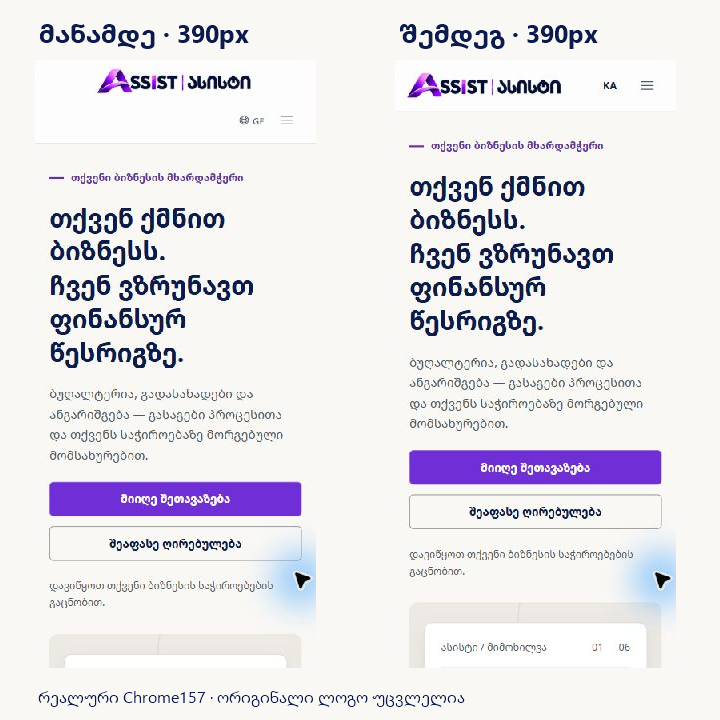
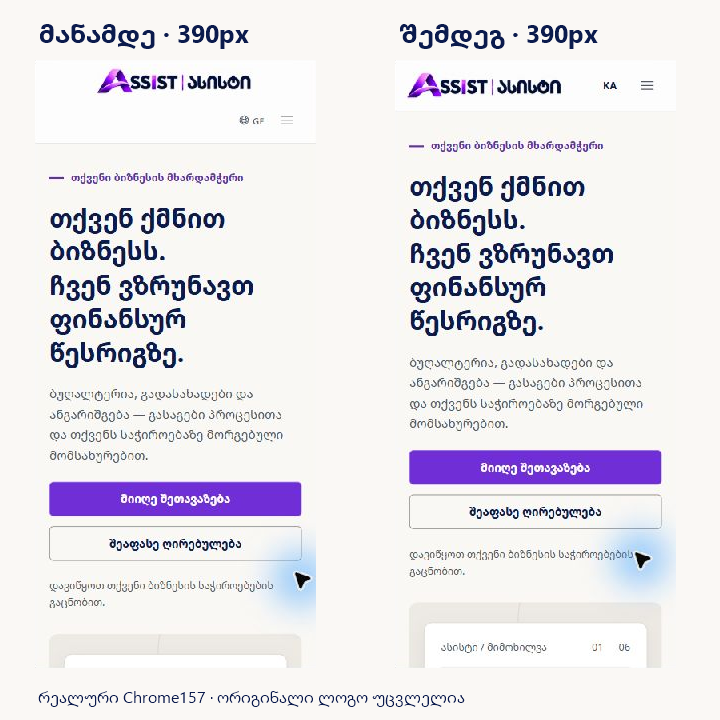
Record verified public mobile header and pin bootstrap LF bytes

Changed region(s): [[0.825, 0.7333, 0.9472, 0.8556]]

diff --git a/docs/brand/CODEX_CONTINUE.md b/docs/brand/CODEX_CONTINUE.md
@@ -1,3 +1,13 @@
+## მობილური ჰედერი საჯაროდ ასახულია — 19 ნოემბერი 2026
+
+[PR #5](https://github.com/revaza88/assistpro/pull/5) main-ში გაერთიანდა: [091e360](https://github.com/revaza88/assistpro/commit/091e36066803f1383a4efce5c7eaf78be81a93d7). ზუსტ GitHub წყაროზე9def91d TypeScript,39/39 ტესტი,production build15+404,local clean audit-release5assets წარმატებულია. CI status0;local შედეგები CI-ად არ ჩაითვალოს.
+
+**Assist.ge-ზე ახალი header დადასტურდა:**15 საჯარო გვერდი200/ერთი H1/CSP nonce/noindex/intake disabled;9 რეალურად ჩამოტვირთული ფაილის hash/ზომა ემთხვევა build-ს;4font200. Fresh public Chrome157320×844/390×844-ზე სრული ლოგო,KA selector დაmenu ერთ ზოლშია;menu open/Escape დახურვა მუშაობს. [საჯარო ანგარიში](qa/2026-11-19-mobile-header/public-publication.json) · [საჯარო მანამდე/შემდეგ](qa/2026-11-19-mobile-header/header-comparison.png).
+
+დამატებით Windows-ის CRLF static theme-init.js ასლი განსხვავდებოდა Git-ის LF blob-სგან;ზუსტი committed blob-ით აწყობილმა build-მა public9 fingerprint გაიარა. .gitattributes-ში ამ ფაილს LF დაეფიქსირა განმეორების თავიდან ასაცილებლად. Runtime ლოგიკა უცვლელია. Existing hosting Git metadata null საკითხი ცალკეა;strict audit არ შესუსტებულა. ბაზა/production intake/indexing/გარე შეტყობინებები გამორთულია,public write0. ფიზიკური მობილური/AT არ გამოყენებულა.
+
+---
+
 ## მობილური ჰედერი — 19 ნოემბერი 2026
 
 მომხმარებლის მოთხოვნით მობილური header ერთ კომპაქტურ ზოლში გადავიდა: სრული Master PNG მარცხნივ,KA/EN/RU არჩევანი და48px menu მარჯვნივ. მოშორებულია479px-ზე ძველი იძულებითი ორ-რიგიანი centering; ლოგო არ მოჭრილა/შეცვლილა. მობილური header sticky-ა. 200% ტექსტზე არსებული container reflow განზრახ ორ რიგს იყენებს,რომ კონტროლები/ლოგო არ მოიჭრას. ენის სრული დასახელებები native select-ში და ხელმისაწვდომი label შენარჩუნებულია; მობილურზე არასაიმედო flag glyph შეიცვალა ენის კოდით,desktop-ის autonym უცვლელია.

diff --git a/docs/brand/IMPLEMENTATION_ACCEPTANCE.md b/docs/brand/IMPLEMENTATION_ACCEPTANCE.md
@@ -1,3 +1,13 @@
+## მობილური ჰედერი საჯაროდ ასახულია — 19 ნოემბერი 2026
+
+[PR #5](https://github.com/revaza88/assistpro/pull/5) main-ში გაერთიანდა: [091e360](https://github.com/revaza88/assistpro/commit/091e36066803f1383a4efce5c7eaf78be81a93d7). ზუსტ GitHub წყაროზე9def91d TypeScript,39/39 ტესტი,production build15+404,local clean audit-release5assets წარმატებულია. CI status0;local შედეგები CI-ად არ ჩაითვალოს.
+
+**Assist.ge-ზე ახალი header დადასტურდა:**15 საჯარო გვერდი200/ერთი H1/CSP nonce/noindex/intake disabled;9 რეალურად ჩამოტვირთული ფაილის hash/ზომა ემთხვევა build-ს;4font200. Fresh public Chrome157320×844/390×844-ზე სრული ლოგო,KA selector დაmenu ერთ ზოლშია;menu open/Escape დახურვა მუშაობს. [საჯარო ანგარიში](qa/2026-11-19-mobile-header/public-publication.json) · [საჯარო მანამდე/შემდეგ](qa/2026-11-19-mobile-header/header-comparison.png).
+
+დამატებით Windows-ის CRLF static theme-init.js ასლი განსხვავდებოდა Git-ის LF blob-სგან;ზუსტი committed blob-ით აწყობილმა build-მა public9 fingerprint გაიარა. .gitattributes-ში ამ ფაილს LF დაეფიქსირა განმეორების თავიდან ასაცილებლად. Runtime ლოგიკა უცვლელია. Existing hosting Git metadata null საკითხი ცალკეა;strict audit არ შესუსტებულა. ბაზა/production intake/indexing/გარე შეტყობინებები გამორთულია,public write0. ფიზიკური მობილური/AT არ გამოყენებულა.
+
+---
+
 ## მობილური ჰედერი — 19 ნოემბერი 2026
 
 მომხმარებლის მოთხოვნით მობილური header ერთ კომპაქტურ ზოლში გადავიდა: სრული Master PNG მარცხნივ,KA/EN/RU არჩევანი და48px menu მარჯვნივ. მოშორებულია479px-ზე ძველი იძულებითი ორ-რიგიანი centering; ლოგო არ მოჭრილა/შეცვლილა. მობილური header sticky-ა. 200% ტექსტზე არსებული container reflow განზრახ ორ რიგს იყენებს,რომ კონტროლები/ლოგო არ მოიჭრას. ენის სრული დასახელებები native select-ში და ხელმისაწვდომი label შენარჩუნებულია; მობილურზე არასაიმედო flag glyph შეიცვალა ენის კოდით,desktop-ის autonym უცვლელია.

diff --git a/docs/brand/qa/2026-11-19-mobile-header/README.md b/docs/brand/qa/2026-11-19-mobile-header/README.md
@@ -1,3 +1,5 @@
+> გამოქვეყნებულია:PR #5/merge091e360;public15routes/9asset fingerprints/4fonts და fresh Chrome157320/390 შემოწმება წარმატებულია. [HTTP ანგარიში](public-publication.json).
+
 # ბუნებრივი მობილური header
 
 საწყისი main064f8df;branch codex/assist-mobile-header.
@@ -10,4 +12,4 @@
 
 TypeScript/39ტესტი/build15+404/smoke/audit-web15routes წარმატებულია. Master PNG SHA-256449ff8c94c993a29bc58f9e0e43bb04d594088e367eeb015fd094fbd73191a5e უცვლელია. INTAKE_MODE=disabled;INDEXING_ENABLED=false. ფიზიკური მობილური/AT/full orientation matrix არ გამოყენებულა/გამეორებულა.
 
-[რეალური მანამდე/შემდეგ390](header-comparison.png) · [320px](header-320.png) · [კადრების URL/დრო](browser-captures.json). Native screenshot crop-ებია;არა მაკეტები. მარცხენა კადრი public baseline,right local production. ლურჯი halo automation pointer-ია.
+[რეალური მანამდე/შემდეგ390](header-comparison.png) · [320px](header-320.png) · [კადრების URL/დრო](browser-captures.json). Native screenshot crop-ებია;არა მაკეტები. მარცხენა კადრი public baseline,right ახალი public production. ლურჯი halo automation pointer-ია.
